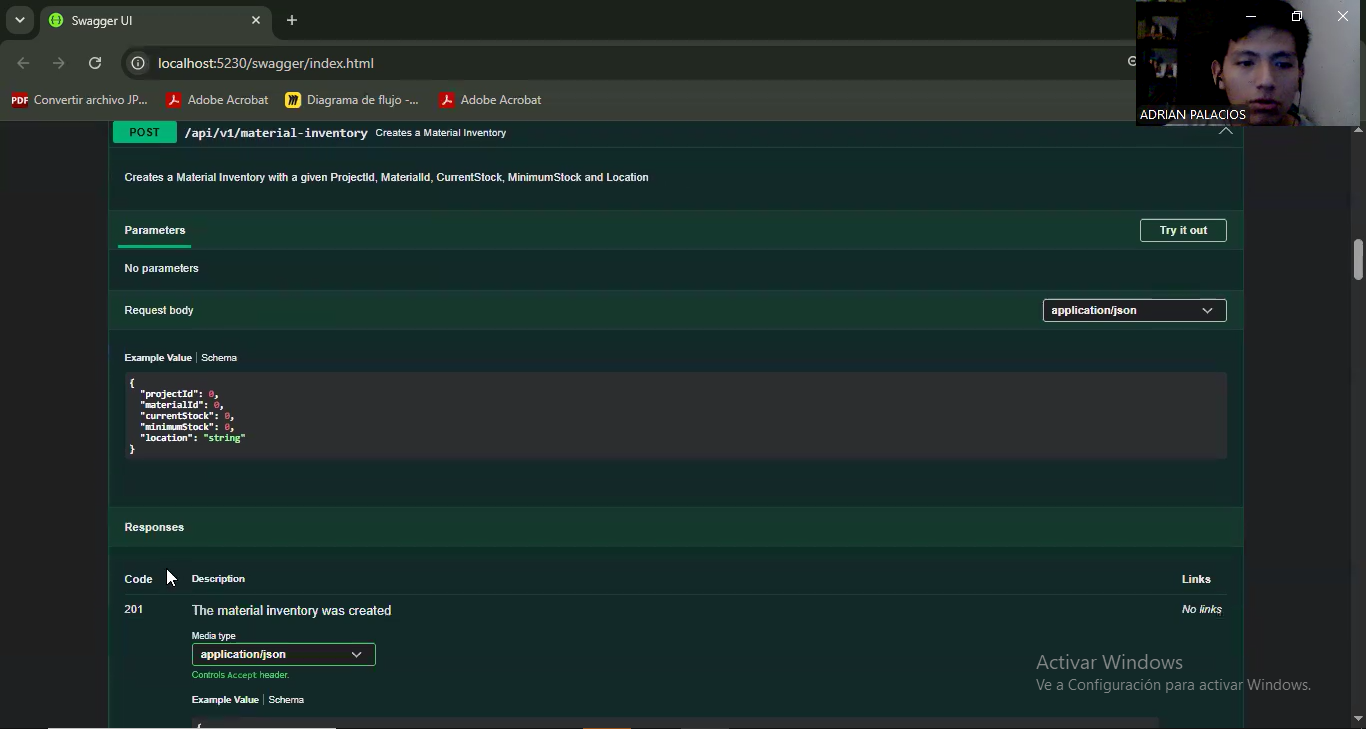
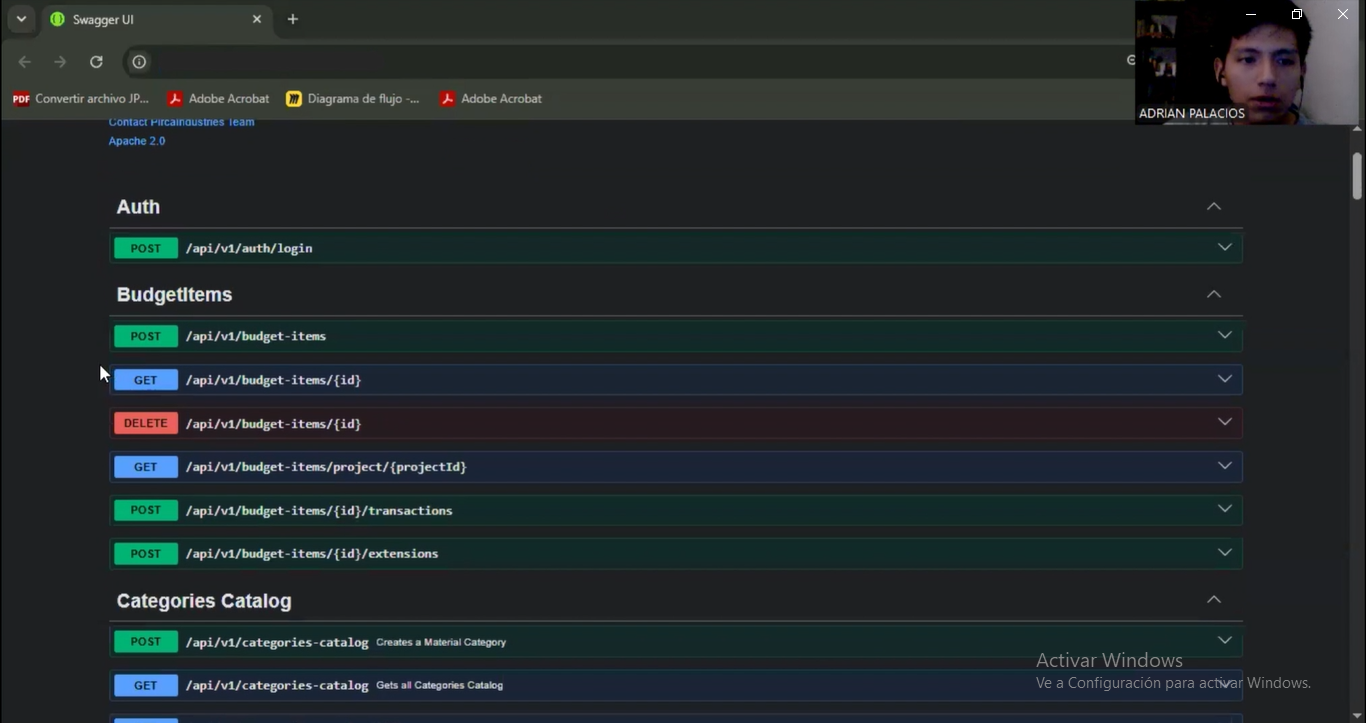
Fix: update link video about the product and the picture

diff --git a/README.md b/README.md
@@ -5872,7 +5872,7 @@ Por otro lado, algunas funcionalidades del frontend interno, como la persistenci
     <img src="Resources/Video-About-The-Product/Video-About-The-Product-image-AV2.PNG" alt="Video-About-The-Product">
   </div>
 
-Enlace: [Video-About-The-Product](https://upcedupe-my.sharepoint.com/:v:/g/personal/u202410817_upc_edu_pe/IQDGCp6TCRyLSoOq0QX0t9wsAeNlRxLWEqTmdicbAfGM5UY?nav=eyJyZWZlcnJhbEluZm8iOnsicmVmZXJyYWxBcHAiOiJPbmVEcml2ZUZvckJ1c2luZXNzIiwicmVmZXJyYWxBcHBQbGF0Zm9ybSI6IldlYiIsInJlZmVycmFsTW9kZSI6InZpZXciLCJyZWZlcnJhbFZpZXciOiJNeUZpbGVzTGlua0NvcHkifX0&e=iqmslm)
+Enlace: [Video-About-The-Product](https://upcedupe-my.sharepoint.com/:v:/g/personal/u202410817_upc_edu_pe/IQBda8fDJPgUQI3F04Jr-I-KAa_3uJOtrTLDH8QlrO5P6qo?nav=eyJyZWZlcnJhbEluZm8iOnsicmVmZXJyYWxBcHAiOiJPbmVEcml2ZUZvckJ1c2luZXNzIiwicmVmZXJyYWxBcHBQbGF0Zm9ybSI6IldlYiIsInJlZmVycmFsTW9kZSI6InZpZXciLCJyZWZlcnJhbFZpZXciOiJNeUZpbGVzTGlua0NvcHkifX0&e=6OJiqJ)
 
 ---
 # Conclusiones
